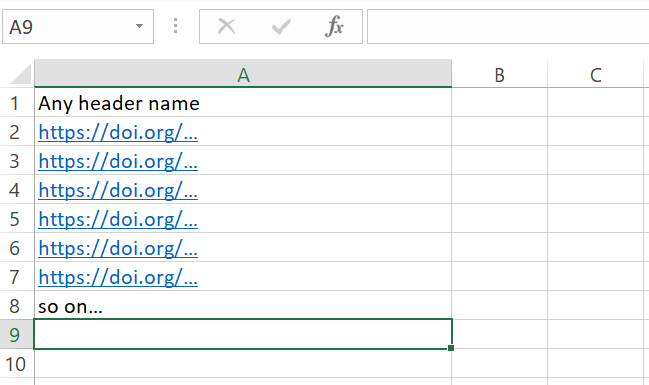
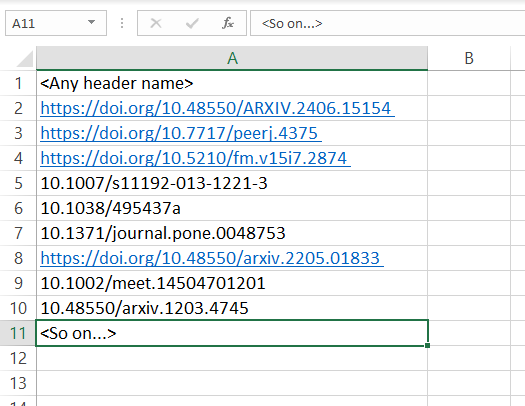
updated about page, footer, header, and hover image

diff --git a/src/orc/frontend/orc-demo/src/components/About.jsx b/src/orc/frontend/orc-demo/src/components/About.jsx
@@ -1,13 +1,10 @@
 // About.js
 import React from 'react';
 import './styles/About.sass';
-import open_bib from '../images/openbib.gif';
-import gesis_logo from '../images/logo_gesis.svg';
-import Bmbf from '../images/bmbf.svg';
 
 const About = () => {
     return <div className="row align-items-center justify-content-center">
-        <div className="col-md-10 col-border">
+        <div className="col-md-11">
             <h2 className="text-center headings-color">About ORC</h2>
             <p>
                 The <a href="https://orc-demo.gesis.org" target="_blank" rel="noopener noreferrer">
@@ -20,6 +17,43 @@ const About = () => {
                 Try out the ORC demo where you can trial the functionality.
                 This URL may be subject to change or to removal after a period of time.
             </p>
+
+            <h4 className="headings-color mt-3">How to use it?</h4>
+            <h5 className="headings-color"><i className="fas fa-book me-2"></i>Instructions</h5>
+            <ol>
+                <li>Navigate to <a href="https://orc-demo.gesis.org" target="_blank" rel="noopener noreferrer">https://orc-demo.gesis.org</a></li>
+                <li>Fill in your email address into the email box. This is so that OpenAlex can monitor traffic and places your requests in the "polite pool," where responses are faster and more consistent.</li>
+                <li>Input your DOI data:</li>
+                <ul>
+                    <li><strong>Via text box:</strong> The ORC expects a comma-separated list of DOIs. It does not mind whether DOIs are prefaced with "https://doi.org/"</li>
+                    <li><strong>Via CSV file:</strong> Browse to select a CSV file with maximum size of 1 Megabyte, which will be read into the text box. The ORC expects a single column of DOIs with a header. If the first row contains a DOI, it will not be parsed.</li>
+                    <li><strong>Via copy-paste:</strong> You can also manually copy and paste your DOI data into the text box. The ORC can accept thousands of DOIs, but it may take a few minutes to process.</li>
+                </ul>
+                <li>Click Submit</li>
+                <ul>
+                    <li>A waiting animation should appear in the right-hand output box. If it flashes and disappears, your query may have been unsuccessful. Please try again or check your input. </li>
+                </ul>
+                <li>Wait for Output</li>
+                <ul>
+                    <li>If successful, the first 50 OpenAlex IDs corresponding to your DOIs will appear in the output box. If you submitted more than 50 DOIs, click "download CSV" to download a file containing the DOI in the first column and the OpenAlex ID in the second.</li>
+                </ul>
+            </ol>
+
+            <h6 className="headings-color"><i className="fas fa-tools me-2"></i>Local Installation</h6>
+            <p>
+                If you wish to run the ORC locally, please go to <a href="https://github.com/jhculb/Open-Research-Converter?tab=readme-ov-file#local-installation" target="_blank" rel="noopener noreferrer">Local Installation </a>
+            </p>
+
+            <h6 className="headings-color"><i className="fas fa-pen me-2"></i>Want to Cite?</h6>
+            <p>
+                As of release on the 16th of September 2024: This software is being submitted to <a href="https://joss.theoj.org/" target="_blank" rel="noopener noreferrer">JOSS</a>, citation details pending.
+            </p>
+
+            <h6 className="headings-color"><i className="fas fa-bug me-2"></i>Report an issue</h6>
+            <p>
+                You are welcome to report a problem or to open a new ticket, kindly go to <a href="https://github.com/jhculb/Open-Research-Converter/issues" target="_blank" rel="noopener noreferrer">Open Issue </a>
+            </p>
+
             <h4 className="headings-color"><i className="fas fa-lightbulb me-2"></i>How it works?</h4>
             <p>
                 The input is being processed after sending the request to the respective API endpoint on the ORC server which further calls OpenAlex's API to process the input and provide the output.
@@ -45,11 +79,7 @@ const About = () => {
                 </li>
             </ul>
 
-            <h4 className="headings-color"><i className="fas fa-users me-2 mt-3"></i>Team from
-                <a href="https://www.gesis.org/home" target="_blank" rel="noopener noreferrer">
-                    <img src={gesis_logo} alt="gesis" className="ms-2" style={{height: '30px', verticalAlign: 'middle'}}/>
-                </a>
-            </h4>
+            <h4 className="headings-color"><i className="fas fa-users me-2 mt-3"></i>Team</h4>
             <ul className="list-unstyled mt-2">
                 <li>
                     <i className="fas fa-user me-2 headings-color"></i>
@@ -81,11 +111,11 @@ const About = () => {
 
             <h4 className="headings-color"><i className="fas fa-dollar-sign me-2 mt-3"></i>Funding</h4>
             <p>
-                This work was funded by the Federal Ministry of Education and Research <a href="https://www.bmbf.de/bmbf/en/home/home_node.html" target="_blank" rel="noopener noreferrer">
-                <img src={Bmbf} alt="Bmbf" style={{height: '30px', verticalAlign: 'middle'}}/>
+                This work was funded by the <a href="https://www.bmbf.de/bmbf/en/home/home_node.html" target="_blank" rel="noopener noreferrer">
+                Federal Ministry of Education and Research (BMBF)
             </a> via funding numbers: 16WIK2301B /
                 16WIK2301E, The <a href="https://www.openbib.org/" target="_blank" rel="noopener noreferrer">
-                <img src={open_bib} alt="OpenBib" style={{height: '20px', verticalAlign: 'middle'}}/>
+                OpenBib
                 </a> project.
                 We acknowledge support by Federal Ministry of Education and Research, Germany under grant number
                 01PQ17001, the Competence Network for Bibliometrics.
@@ -93,44 +123,6 @@ const About = () => {
             <p>
                 Jack Culbert and Philipp Mayr received additional funding by the European Union under the Horizon Europe
                 grant OMINO – Overcoming Multilevel INformation Overload under grant number 101086321.
-            </p>
-        </div>
-
-        <div className="col-md-10">
-            <h2 className="text-center headings-color mt-3">How to use it?</h2>
-            <h4 className="headings-color"><i className="fas fa-book me-2"></i>Instructions</h4>
-            <ol>
-                <li>Navigate to <a href="https://orc-demo.gesis.org" target="_blank" rel="noopener noreferrer">https://orc-demo.gesis.org</a></li>
-                <li>Fill in your email address into the email box. This is so that OpenAlex can monitor traffic and places your requests in the "polite pool," where responses are faster and more consistent.</li>
-                <li>Input your DOI data:</li>
-                <ul>
-                    <li><strong>Via text box:</strong> The ORC expects a comma-separated list of DOIs. It does not mind whether DOIs are prefaced with "https://doi.org/"</li>
-                    <li><strong>Via CSV file:</strong> Browse to select a CSV file, which will be read into the text box. The ORC expects a single column of DOIs with a header. If the first row contains a DOI, it will not be parsed.</li>
-                    <li><strong>Via copy-paste:</strong> You can also manually copy and paste your DOI data into the text box. The ORC can accept thousands of DOIs, but it may take a few minutes to process.</li>
-                </ul>
-                <li>Click Submit</li>
-                <ul>
-                    <li>A waiting animation should appear in the right-hand output box. If it flashes and disappears, your query may have been unsuccessful. Please try again or check your input. </li>
-                </ul>
-                <li>Wait for Output</li>
-                <ul>
-                    <li>If successful, the first 50 OpenAlex IDs corresponding to your DOIs will appear in the output box. If you submitted more than 50 DOIs, click "download CSV" to download a file containing the DOI in the first column and the OpenAlex ID in the second.</li>
-                </ul>
-            </ol>
-
-            <h5 className="headings-color"><i className="fas fa-tools me-2"></i>Local Installation</h5>
-            <p>
-                If you wish to run the ORC locally, please go to <a href="https://github.com/jhculb/Open-Research-Converter?tab=readme-ov-file#local-installation" target="_blank" rel="noopener noreferrer">Local Installation </a>
-            </p>
-
-            <h5 className="headings-color"><i className="fas fa-pen me-2"></i>Want to Cite?</h5>
-            <p>
-                As of release on the 16th of September 2024: This software is being submitted to <a href="https://joss.theoj.org/" target="_blank" rel="noopener noreferrer">JOSS</a>, citation details pending.
-            </p>
-
-            <h5 className="headings-color"><i className="fas fa-bug me-2"></i>Report an Issue</h5>
-            <p>
-                If you have encountered any bug and want to report it, kindly go to <a href="https://github.com/jhculb/Open-Research-Converter/issues" target="_blank" rel="noopener noreferrer">Open Issue </a>
             </p>
         </div>
     </div>;

diff --git a/src/orc/frontend/orc-demo/src/components/Footer.jsx b/src/orc/frontend/orc-demo/src/components/Footer.jsx
@@ -1,15 +1,26 @@
 import React from 'react';
 import './styles/Footer.sass'
+import open_bib from '../images/openbib.gif';
+import Bmbf from '../images/bmbf.svg';
 const Footer = () => {
     return (
-        <footer className="footer-bg-color text-color text-center py-3">
-            <div className="container">
+        <footer className="footer-bg-color text-color text-center">
+            <div className="container mt-3">
                 <a href="https://www.gesis.org/en/institute/imprint" className="mb-0 link-color">GESIS - Imprint </a> &nbsp;|&nbsp;
                 <a href="https://bibliometrie.info/en/research" className="mb-0 link-color">Project Website </a> &nbsp;|&nbsp;
                 <a href="https://github.com/jhculb/Open-Research-Converter" className="mb-0 link-color">Codebase </a>
                 <p className="mb-0 text-color">E-mail:
                     <span className="email-color mx-2">john.culbert@gesis.org</span>|
                     <span className="email-color mx-2">ahsan.shahid@gesis.org</span>
+                </p>
+                <p className="mt-2">
+                    <a href="https://www.bmbf.de/bmbf/en/home/home_node.html" target="_blank" rel="noopener noreferrer">
+                        <img src={Bmbf} alt="Bmbf" style={{height: '120px', maxWidth:'180px', verticalAlign: 'middle'}}/>
+                    </a>
+                    &nbsp;&nbsp;
+                    <a href="https://www.openbib.org/" target="_blank" rel="noopener noreferrer">
+                        <img src={open_bib} alt="OpenBib" style={{height: '50px', maxWidth:'100px', verticalAlign: 'middle'}}/>
+                    </a>
                 </p>
             </div>
         </footer>

diff --git a/src/orc/frontend/orc-demo/src/components/Home.jsx b/src/orc/frontend/orc-demo/src/components/Home.jsx
@@ -151,7 +151,7 @@ function Home() {
             });
     }
 
-    // Using useEffect to trigger isDownloadAll when "Download all Info." is pressed
+    // Using useEffect to trigger isDownloadAll when "Download Full Records" is pressed
     useEffect(() => {
         if (isDownloadAll) {
             downloadResult();  // Call the download function
@@ -181,7 +181,7 @@ function Home() {
                     <TextBox
                         title={"Input Box"}
                         rows={16}
-                        placeholder={'Please enter comma separated DOIs or upload a csv file(max. size 1 MB) containing DOIs in the first column'}
+                        placeholder={'Please enter comma separated DOIs or upload a csv file (max. size 1 MB) containing DOIs in the first column'}
                         value={text}
                         onChange={handleTextChange}
                     />

diff --git a/src/orc/frontend/orc-demo/src/components/Header.jsx b/src/orc/frontend/orc-demo/src/components/Header.jsx
@@ -17,8 +17,8 @@ class Header extends Component {
             <div className="col-12 col-md-1 mt-2 d-flex justify-content-center justify-content-md-end align-self-end">
                 {
                     this.props.isHome?
-                        <a href="/about" className="mb-0 link-color">
-                            <i className="fas fa-info-circle fa-2x"></i>
+                        <a href="/about" className="mb-0 link-color" style={{ fontSize: '22px' }}>
+                            About
                         </a>
                         :
                         <a href="/" className="mb-0 link-color">

diff --git a/src/orc/frontend/orc-demo/src/components/HintButton.jsx b/src/orc/frontend/orc-demo/src/components/HintButton.jsx
@@ -19,7 +19,7 @@ const HintButton = ({ imageName }) => {
             {showImage && (
                 <div className='image-style d-flex flex-column align-items-center'>
                     <b className='txt-color text-center'>Input file format:</b>
-                    <img src={imageName==='input_template'? input_template : null} alt="Hint" style={{ width: '500px' }} />
+                    <img src={imageName==='input_template'? input_template : null} alt="Hint" style={{ height: '400px', maxWidth:'600' }} />
                 </div>
             )}
         </div>

diff --git a/src/orc/frontend/orc-demo/src/components/styles/HintButton.sass b/src/orc/frontend/orc-demo/src/components/styles/HintButton.sass
@@ -2,7 +2,7 @@
   position: absolute
   top: 100%
   left: 50%
-  transform: translateX(-50%)
+  transform: translateX(-65%)
   padding: 10px
   background-color: white
   border: 1px solid #ccc

diff --git a/src/orc/frontend/orc-demo/src/components/styles/About.sass b/src/orc/frontend/orc-demo/src/components/styles/About.sass
@@ -1,6 +1,2 @@
-.col-border
-  border-bottom: 3px solid lightgray
-  //border-radius: 5px
-
 .headings-color
   color: #2596be
